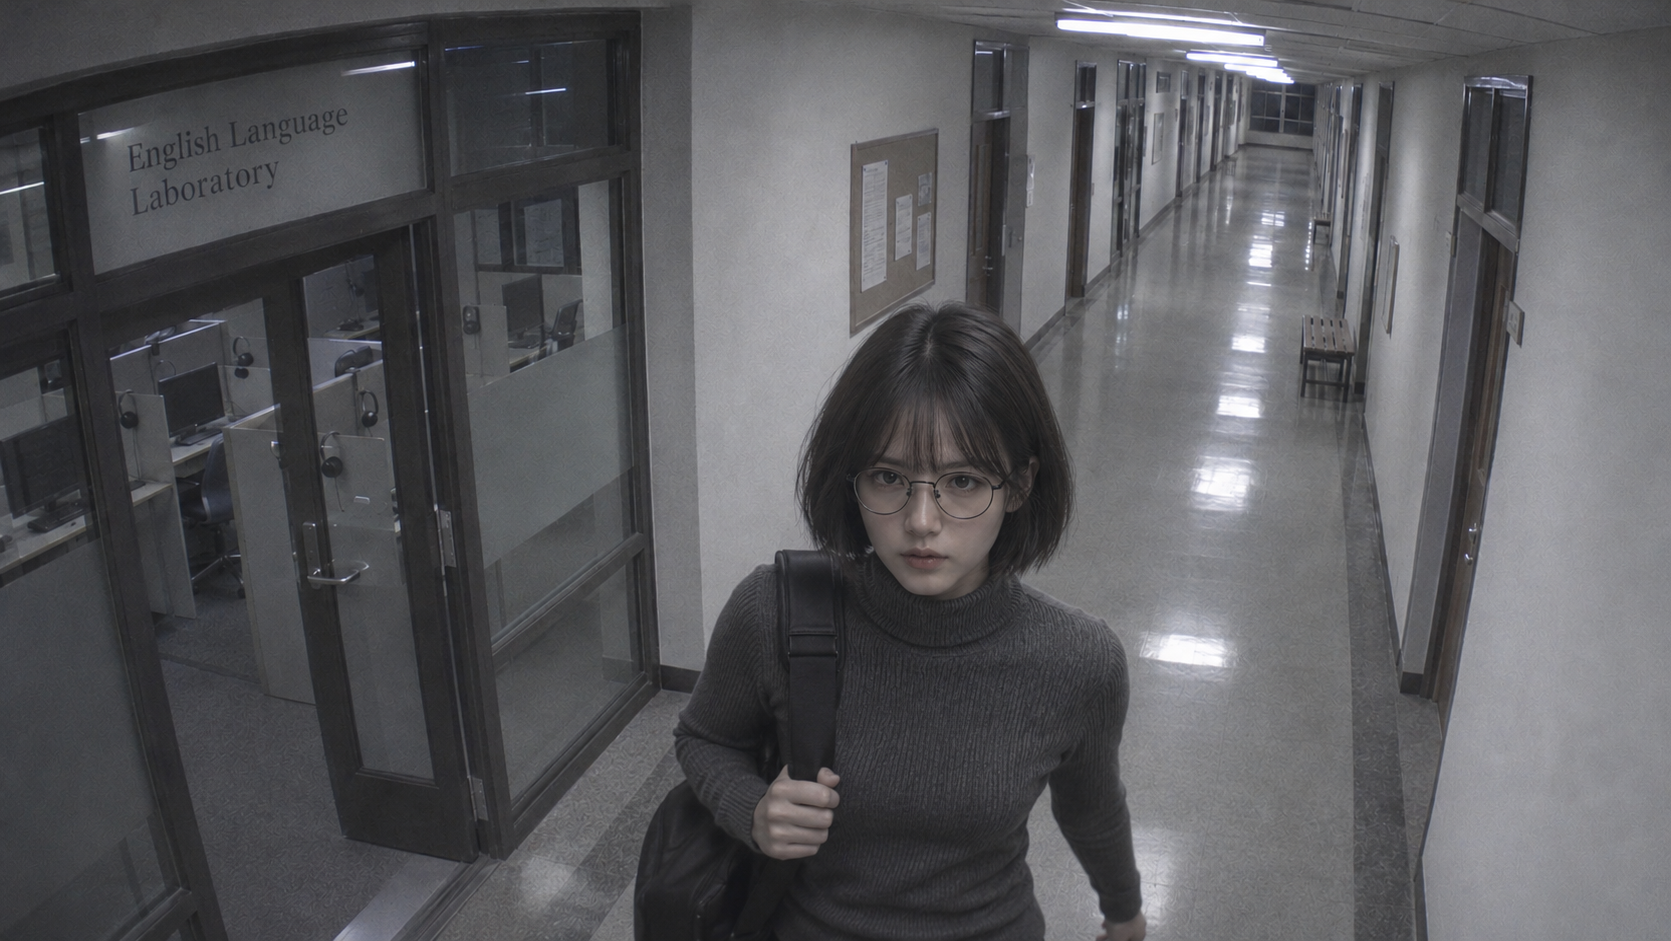
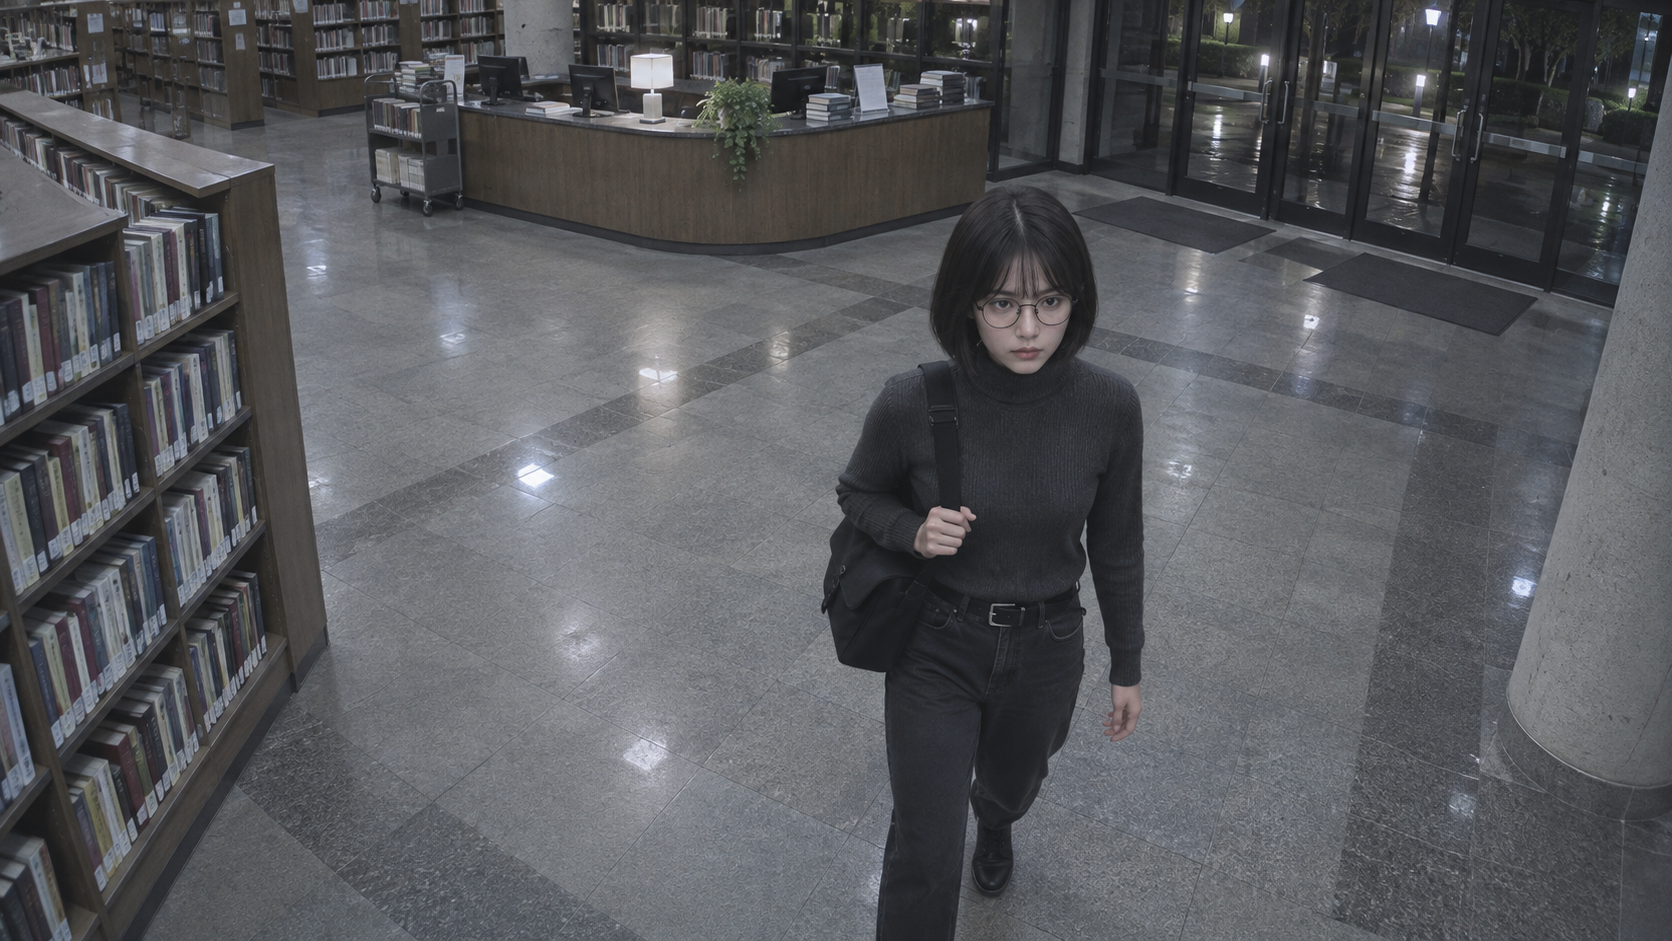
Move Emma CCTV clue to campus library

diff --git a/src/data/story.js b/src/data/story.js
@@ -61,7 +61,7 @@ export const STAGES = {
     clueTitle: '嫌疑人線索', folderTitle: '案件證據資料夾｜第二關 真正兇手',
     clues: [
       { short: '社團合照', title: '社團合照：案發時的英文社', photo: '英文社社團合照', image: '/clues/bingo2-english-club.png', quote: '社團合照證明，案發時 Alex 在英文社活動。', source: '社團活動紀錄・11/12 20:30', summary: 'Alex 案發時在英文社' },
-      { short: '監視器畫面', title: '走廊監視器畫面', photo: '走廊監視器畫面', image: '/clues/bingo2-emma-cctv.png', quote: '監視器畫面證明 Emma 當晚的行蹤。', source: '監視器紀錄・11/12 21:00', summary: 'Emma 當晚行蹤已確認' },
+      { short: '監視器畫面', title: '圖書館監視器畫面', photo: '圖書館大廳監視器畫面', image: '/clues/bingo2-emma-cctv.png', quote: '監視器畫面顯示，案發當晚 Emma 出現在校園圖書館。', source: '圖書館監視器紀錄・11/12 21:00', summary: 'Emma 當晚在圖書館' },
       { short: '通風啟動帳號', title: '通風系統的登入帳號', photo: '通風系統登入紀錄', quote: '設備室的通風系統，是用 Kevin 的帳號啟動的。', source: '系統操作紀錄・11/12 21:12', summary: '用 Kevin 的帳號啟動' },
       { short: '不在場證明', title: 'Kevin 的不在場證明', photo: '另一棟樓的門禁紀錄', quote: '案發時 Kevin 本人在另一棟樓。', source: '門禁紀錄・11/12 21:10', summary: 'Kevin 本人在另一棟樓' },
       { short: '設備室目擊', title: '設備室附近的目擊者', photo: '設備室附近的目擊紀錄', quote: '案發時，Sophia 曾出現在設備室附近。', source: '目擊證詞・11/12 21:08', summary: 'Sophia 出現在設備室附近' },
